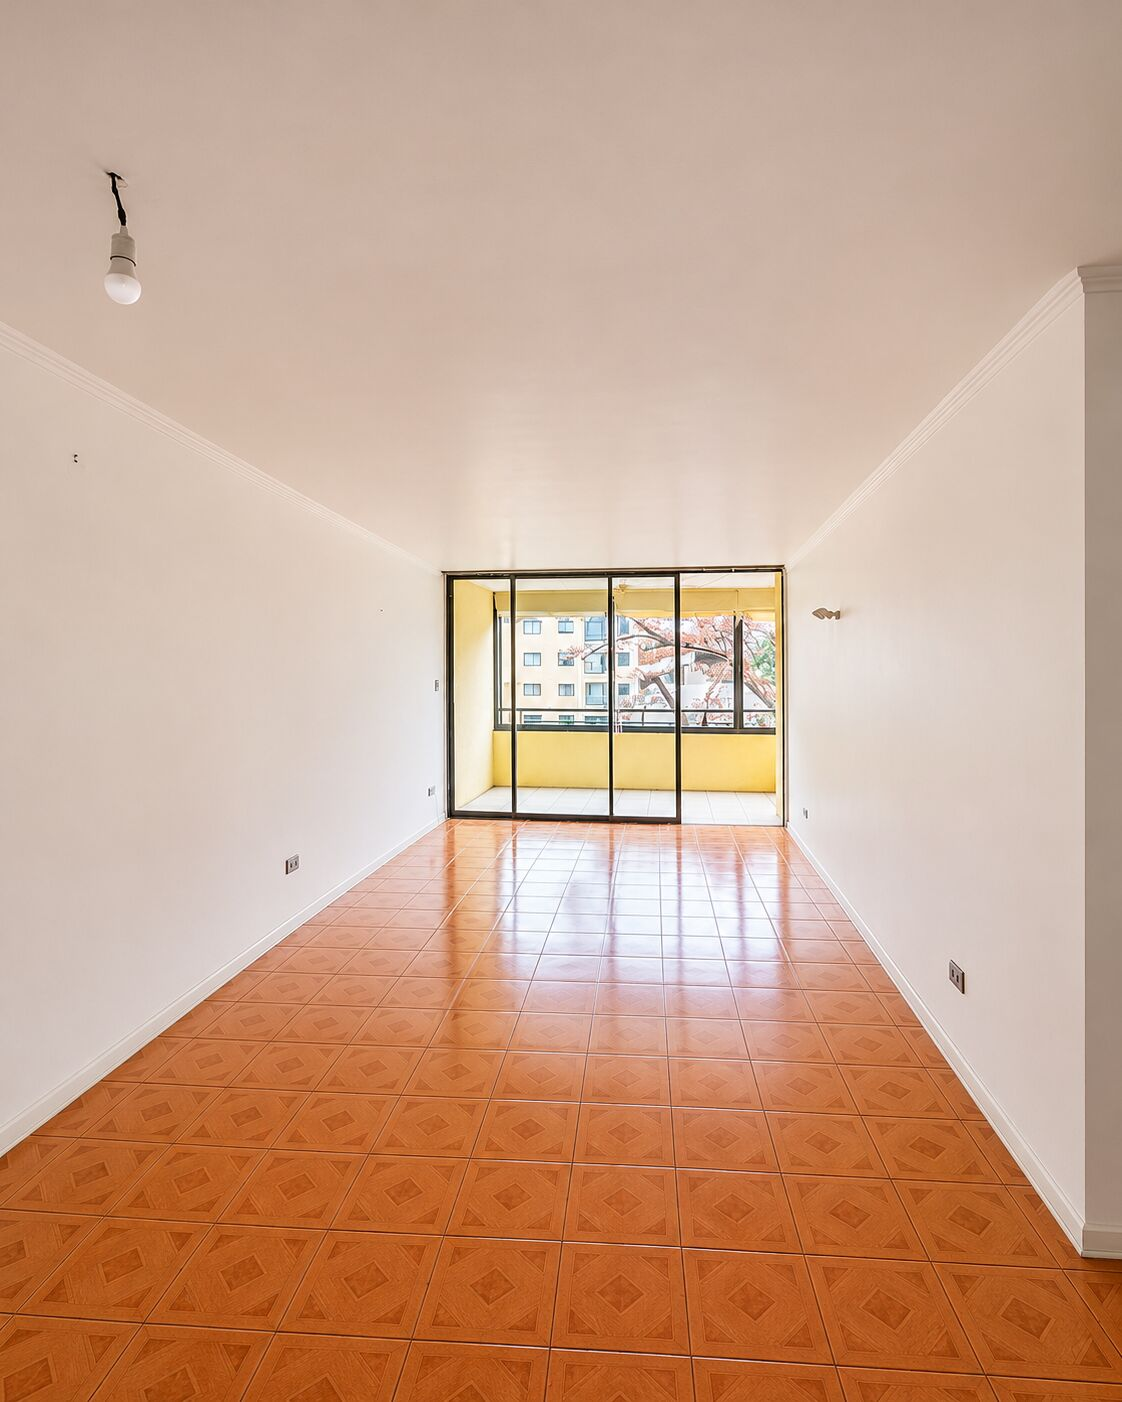
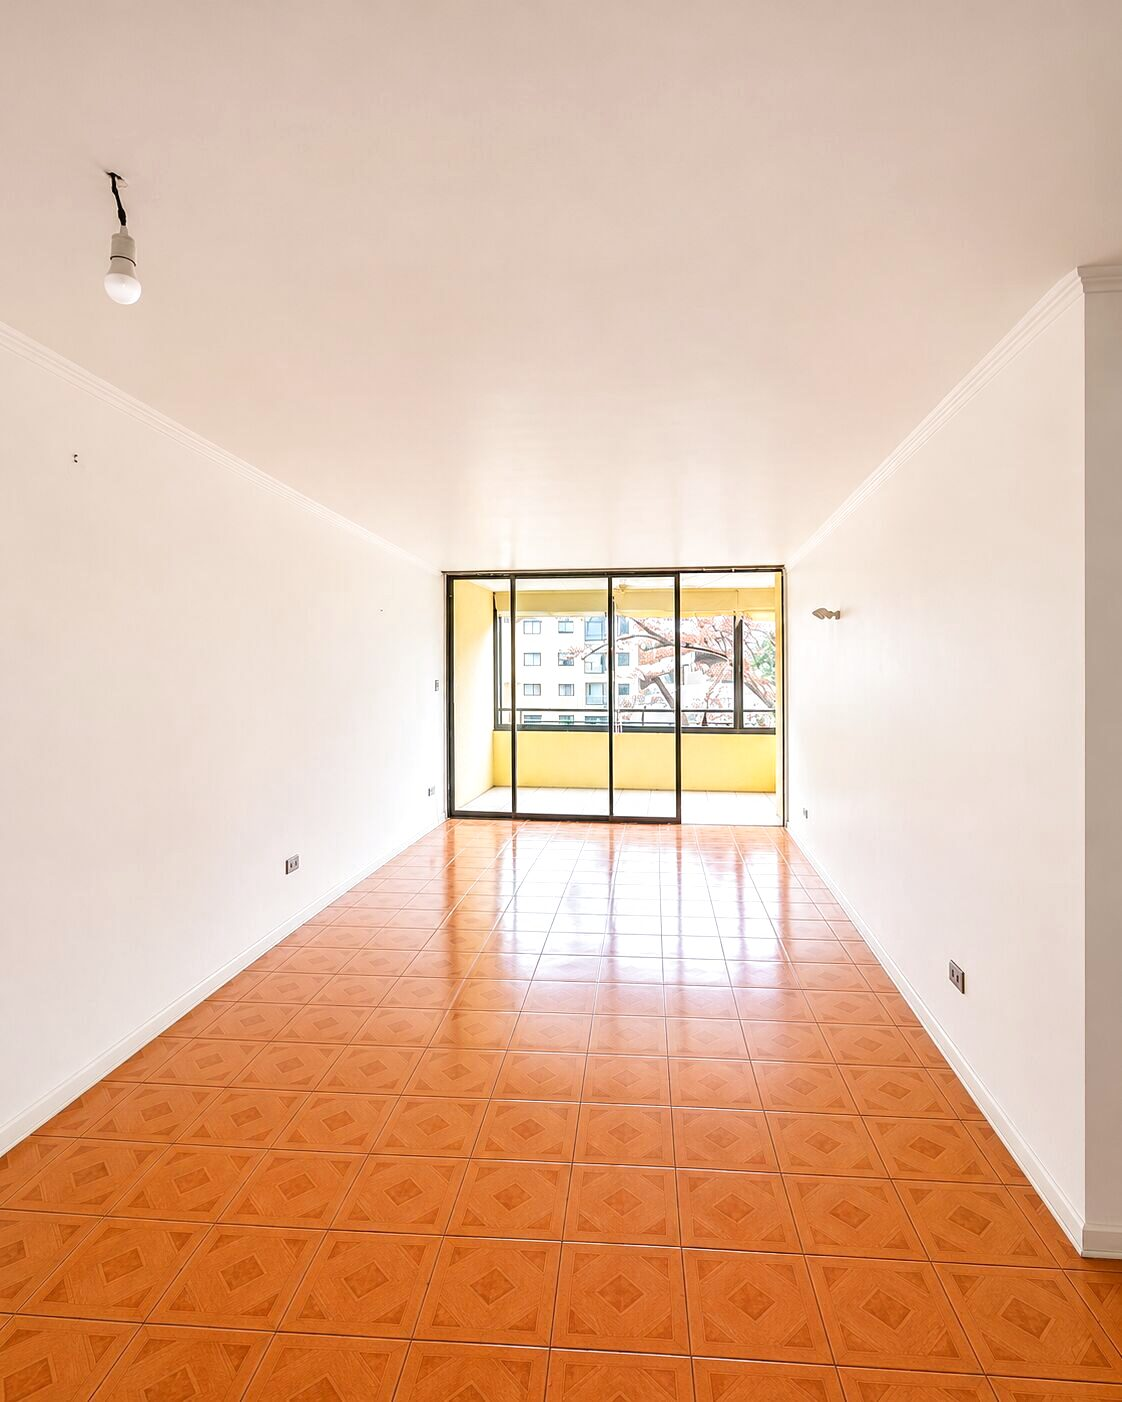
Hipólito: fotos más luminosas y foto principal más amplia
Claude-Session: https://claude.ai/code/session_01KqdLxVZ8tVu4XsTqt3LR4e

diff --git a/propiedades/hipolito-irigoyen/index.html b/propiedades/hipolito-irigoyen/index.html
@@ -44,7 +44,7 @@
 
   /* HERO */
   .p-hero { padding: 120px 0 0; }
-  .p-hero-img { position: relative; width: 100%; aspect-ratio: 16 / 8; border-radius: 4px; overflow: hidden; background: var(--bg-deep); cursor: zoom-in; }
+  .p-hero-img { position: relative; width: 100%; aspect-ratio: 16 / 10; border-radius: 4px; overflow: hidden; background: var(--bg-deep); cursor: zoom-in; }
   .p-hero-img img { width: 100%; height: 100%; object-fit: cover; object-position: center 60%; display: block; transition: transform 1.2s ease; }
   .p-hero-img:hover img { transform: scale(1.015); }
   .badge { position: absolute; top: 20px; left: 20px; display: inline-flex; gap: 8px; }
